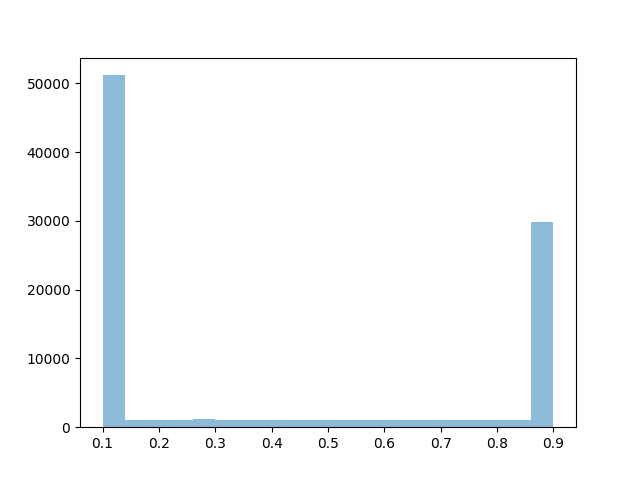
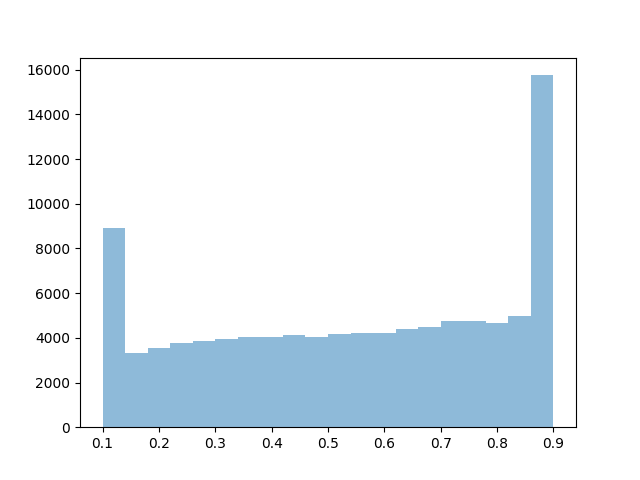
データ生成の変更

diff --git a/src/make_data.py b/src/make_data.py
@@ -2,7 +2,7 @@ from typing import Any, Dict, Tuple
 
 import matplotlib.pyplot as plt
 import numpy as np
-from lightgbm import LGBMRegressor
+from lightgbm import LGBMClassifier
 from numpy.typing import NDArray
 from sklearn.linear_model import LogisticRegression
 from sklearn.model_selection import train_test_split
@@ -13,17 +13,21 @@ def sigmoid(x: NDArray[np.float64]) -> NDArray[np.float64]:
 
 
 class DatasetGenerator:
-    def __init__(self, n_samples: int, n_features: int, std: float, seed: int):
+    def __init__(
+        self, n_samples: int, n_features: int, std: float, predict_ps: bool, seed: int
+    ):
         self.n_samples = n_samples
         self.n_features = n_features
         self.std = std
+        self.predict_ps = predict_ps
         self.seed = seed
 
     def generate_dataset(self) -> Dict[str, NDArray[Any]]:
         dataset: Dict[str, NDArray[Any]] = {}
         dataset |= self.generate_feature()
         dataset |= self.generate_treatment(dataset["features"])
-        dataset |= self.predict_treatment(dataset["features"], dataset["T"])
+        if self.predict_ps:
+            dataset |= self.predict_treatment(dataset["features"], dataset["T"])
         dataset |= self.generate_visit(dataset["features"], dataset["T"])
         dataset |= self.generate_conversion(
             dataset["features"], dataset["T"], dataset["y_c"]
@@ -62,6 +66,7 @@ class DatasetGenerator:
         #     - 0.5
         #     + np.random.normal(0, 0.5, size=len(features))
         # )
+        # T_prob = sigmoid(features[:, 2] * 10)
         T_prob = T_prob.clip(0.01, 0.99)
         T: NDArray[Any] = np.random.binomial(1, T_prob).astype(bool)
         treatment_prob = T_prob[T == 1]
@@ -82,9 +87,9 @@ class DatasetGenerator:
         features: NDArray[Any],
         T: NDArray[Any],
     ) -> Dict[str, NDArray[Any]]:
-        logistic_model = LogisticRegression(max_iter=1000)
-        logistic_model.fit(features, T)
-        T_prob = logistic_model.predict_proba(features)[:, 1]
+        lgb = LGBMClassifier(verbose=-1, random_state=42)
+        lgb.fit(features, T)
+        T_prob = lgb.predict_proba(features)[:, 1]
         T_prob = T_prob.clip(0.01, 0.99)
         return {"T_prob": T_prob}
 
@@ -94,23 +99,19 @@ class DatasetGenerator:
         T: NDArray[Any],
     ) -> Dict[str, NDArray[Any]]:
         np.random.seed(self.seed)
-        noise = np.random.normal(0, self.std, size=3 * len(features))
-        interaction_effects = sigmoid(np.sum(features, axis=1))
+        noise = np.random.normal(0, self.std, size=len(features))
+        interaction_effects = np.exp(features[:, 0]) * 0.2  # 交互作用効果を現実的に
         baseline_effect = (
-            0.3 + features[:, 2] * 0.3 + features[:, 4] * 0.1 + noise[0 : len(features)]
-        )
-        treatment_effect = T * (
-            0.2 + interaction_effects + noise[len(features) : 2 * len(features)]
-        )
-        treatment_effect = np.clip(treatment_effect, 0.01, 100)
+            0.2 + features[:, 2] + features[:, 4]
+        )  # 基本効果を現実的に
+        treatment_effect = T * (0.1 + interaction_effects)  # 治療効果を現実的に
         prob_visit = np.clip(
-            baseline_effect
-            + treatment_effect
-            + noise[2 * len(features) : 3 * len((features))],
+            sigmoid(baseline_effect + treatment_effect) + noise,
             0.05,
             0.95,
         )
         visit = np.random.binomial(1, prob_visit)
+
         plt.clf()
         plt.hist(prob_visit, bins=20, alpha=0.5, label="Visit")
         plt.savefig("visit_prob.png")
@@ -124,19 +125,12 @@ class DatasetGenerator:
         visit: NDArray[Any],
     ) -> Dict[str, NDArray[Any]]:
         np.random.seed(self.seed)
-        noise = np.random.normal(0, self.std, size=3 * len(features))
-        interaction_effects_purchase = sigmoid(np.sum(features, axis=1))
-        baseline_effect_purchase = (
-            0.1 + features[:, 5] * 0.2 + features[:, 7] * 0.2 + noise[0 : len(features)]
-        )
-        treatment_effect_purchase = T * (
-            0.1
-            + interaction_effects_purchase
-            + noise[len(features) : 2 * len(features)]
-        )
-        treatment_effect_purchase = np.clip(treatment_effect_purchase, 0.01, 100)
+        noise = np.random.normal(0, self.std, size=len(features))
+        interaction_effects_purchase = np.exp(features[:, 1]) * 0.2
+        baseline_effect_purchase = 0.1 + features[:, 5] + features[:, 7]
+        treatment_effect_purchase = T * (0.05 + interaction_effects_purchase)
         prob_purchase = np.clip(
-            baseline_effect_purchase + noise[2 * len(features) : 3 * len(features)],
+            sigmoid(baseline_effect_purchase + treatment_effect_purchase) + noise,
             0.10,
             0.90,
         )
@@ -165,24 +159,26 @@ class DatasetGenerator:
         treatment_visit = y_c[treatment_mask]
         control_visit = y_c[control_mask]
 
-        mu_r_0 = LGBMRegressor(verbose=-1, random_state=42).fit(
+        mu_r_0 = LGBMClassifier(verbose=-1, random_state=42).fit(
             control_features, control_purchase
         )
-        mu_r_1 = LGBMRegressor(verbose=-1, random_state=42).fit(
+        mu_r_1 = LGBMClassifier(verbose=-1, random_state=42).fit(
             treatment_features, treatment_purchase
         )
-        mu_c_0 = LGBMRegressor(verbose=-1, random_state=42).fit(
+        mu_c_0 = LGBMClassifier(verbose=-1, random_state=42).fit(
             control_features, control_visit
         )
-        mu_c_1 = LGBMRegressor(verbose=-1, random_state=42).fit(
+        mu_c_1 = LGBMClassifier(verbose=-1, random_state=42).fit(
             treatment_features, treatment_visit
         )
 
         doubly_robust = {}
         doubly_robust["y_r_dr"] = np.where(
             T == 1,
-            (y_r - mu_r_1.predict(features)) / T_prob + mu_r_1.predict(features),
-            (y_r - mu_r_0.predict(features)) / (1 - T_prob) + mu_r_0.predict(features),
+            (y_r - mu_r_1.predict_proba(features)[:, 1]) / T_prob
+            + mu_r_1.predict_proba(features)[:, 1],
+            (y_r - mu_r_0.predict_proba(features)[:, 1]) / (1 - T_prob)
+            + mu_r_0.predict_proba(features)[:, 1],
         )
         doubly_robust["y_c_dr"] = np.where(
             T == 1,

diff --git a/src/model/direct.py b/src/model/direct.py
@@ -119,10 +119,19 @@ class TestDirectDataset(Dataset):  # type: ignore
 class DirectNonLinear(nn.Module):
     def __init__(self, input_dim: int) -> None:
         super(DirectNonLinear, self).__init__()
-        self.fc1 = nn.Linear(input_dim, 2 * input_dim)
-        self.fc2 = nn.Linear(2 * input_dim, input_dim)
-        self.fc3 = nn.Linear(input_dim, int(0.5 * input_dim))
-        self.fc4 = nn.Linear(int(0.5 * input_dim), 1)
+        self.mlp = nn.Sequential(
+            nn.Linear(input_dim, 2 * input_dim),
+            nn.ReLU(),
+            nn.Dropout(0.05),
+            nn.Linear(2 * input_dim, input_dim),
+            nn.ReLU(),
+            nn.Dropout(0.05),
+            nn.Linear(input_dim, int(0.5 * input_dim)),
+            nn.ReLU(),
+            nn.Dropout(0.05),
+            nn.Linear(int(0.5 * input_dim), 1),
+            nn.Sigmoid(),
+        )
 
     def forward(
         self,
@@ -134,8 +143,8 @@ class DirectNonLinear(nn.Module):
         pred = self._predict(X)
         if treated_size is not None and y_r is not None and y_c is not None:
             q_treated = pred[:treated_size]
-            y_r_treated = y_r[:treated_size].squeeze()
-            y_c_treated = y_c[:treated_size].squeeze()
+            y_r_treated = y_r[:treated_size]
+            y_c_treated = y_c[:treated_size]
             y_r_control = y_r[treated_size:]
             y_c_control = y_c[treated_size:]
             q_control = pred[treated_size:]
@@ -151,11 +160,7 @@ class DirectNonLinear(nn.Module):
             return {"pred": pred}
 
     def _predict(self, x: torch.Tensor) -> torch.Tensor:
-        x = torch.relu(self.fc1(x))
-        x = torch.relu(self.fc2(x))
-        x = torch.relu(self.fc3(x))
-        x = torch.sigmoid(self.fc4(x))
-        return x
+        return self.mlp(x) # type: ignore
 
 
 # 損失関数の定義

diff --git a/main.py b/main.py
@@ -1,4 +1,5 @@
 import matplotlib.pyplot as plt
+import numpy as np
 import torch
 from econml.metalearners import SLearner
 from lightgbm import LGBMRegressor
@@ -29,21 +30,22 @@ def main(predict_ps: bool) -> None:
     seed = 42
     n_samples = 100_000
     n_features = 8
-    num_epochs = 150
-    lr = 0.0001
-    std = 1.0
+    num_epochs = 50
+    lr = 0.01
+    std = 0.05 * np.sqrt(2)
     batch_size = 128
     model_name = "Direct"
     model_params = {"input_dim": n_features}
-    dataset = DatasetGenerator(n_samples, n_features, std, seed)
+    dataset = DatasetGenerator(
+        n_samples, n_features, std, predict_ps=predict_ps, seed=seed
+    )
     dataset = dataset.generate_dataset()
     train_dataset, val_dataset, test_dataset = split_dataset(dataset)
     model = get_model(model_name=model_name, model_params=model_params)
-    method_list: list = [
-        "DR",
-        #  "IPW",
-        #  "Direct"
-    ]
+    method_list: list = ["DR",
+                        #  "IPW",
+                        #  "Direct"
+                         ]
     roi_dic = {}
     for method in method_list:
         train_dl = make_loader(
@@ -92,4 +94,4 @@ def main(predict_ps: bool) -> None:
 
 
 if __name__ == "__main__":
-    main(predict_ps=True)
+    main(predict_ps=False)

diff --git a/src/trainer.py b/src/trainer.py
@@ -68,12 +68,13 @@ class Trainer:
                     count_val_batch += 1
             val_loss_history.append(total_val_loss / count_val_batch)
 
+        plt.clf()
         plt.plot(train_loss_history, label="Train")
         plt.plot(val_loss_history, label="Validation")
-        plt.savefig("train_val_loss.png")
         plt.xlabel("Epoch")
         plt.ylabel("Loss")
         plt.legend()
+        plt.savefig("train_val_loss.png")
         return model
 
     def predict(self, dl: DataLoader, model: nn.Module) -> NDArray[Any]:  # type: ignore
@@ -89,4 +90,3 @@ class Trainer:
 
     def save_model(self, model: nn.Module, path: str) -> None:
         torch.save(model.state_dict(), path)
-
